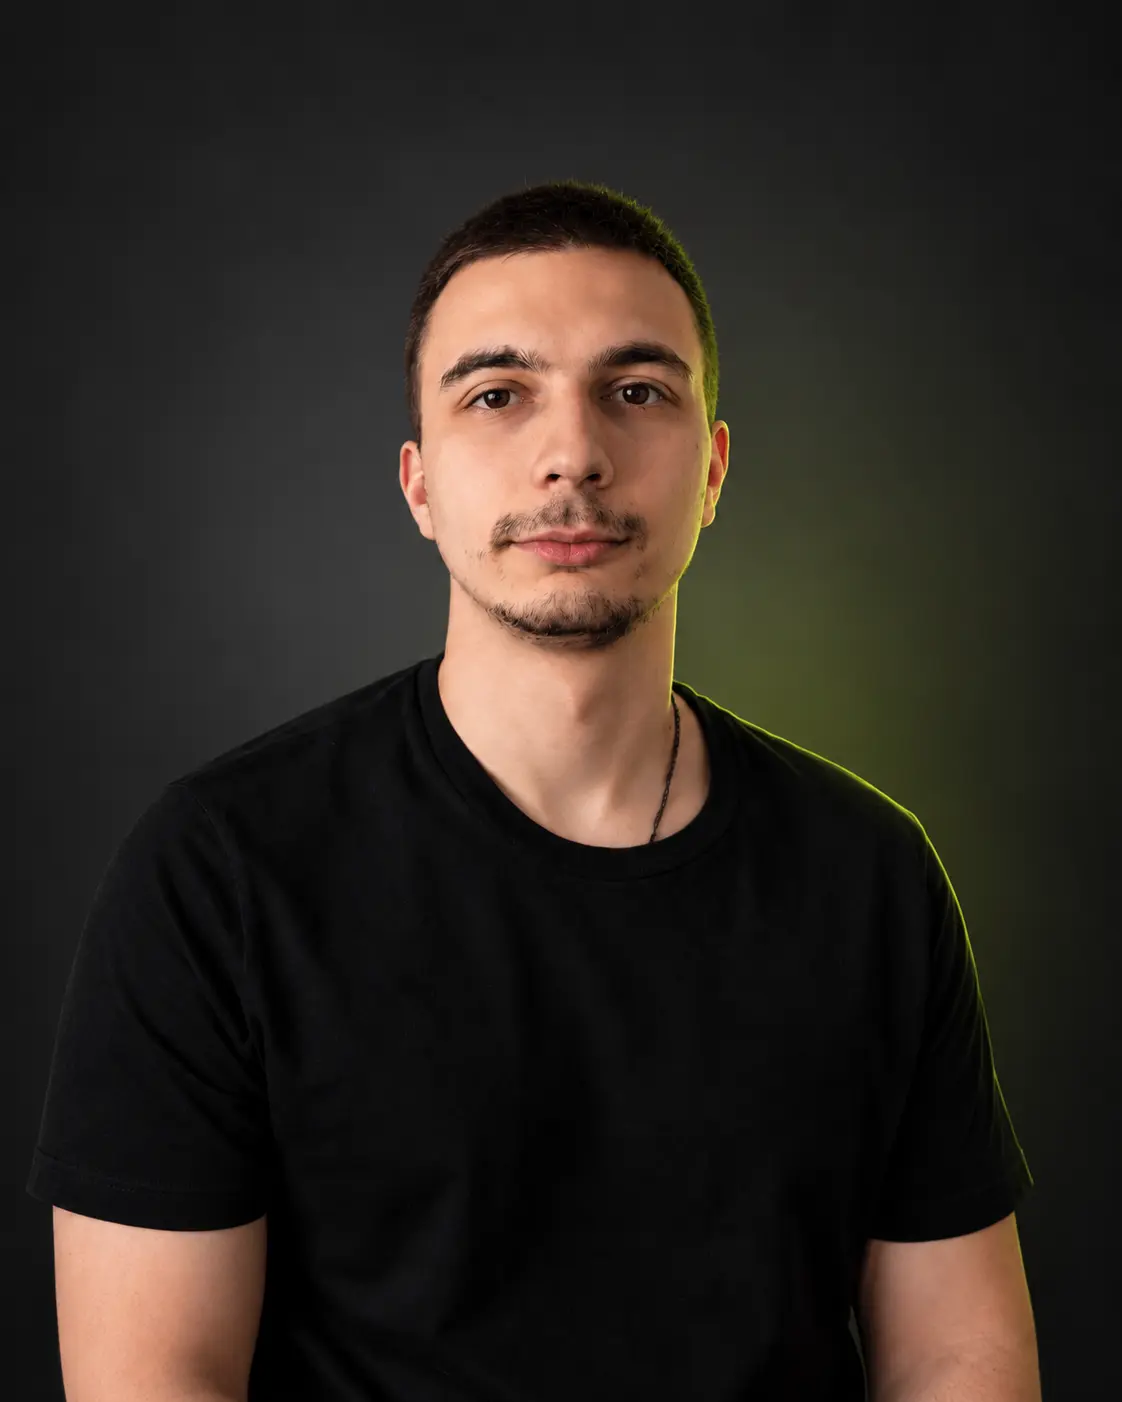
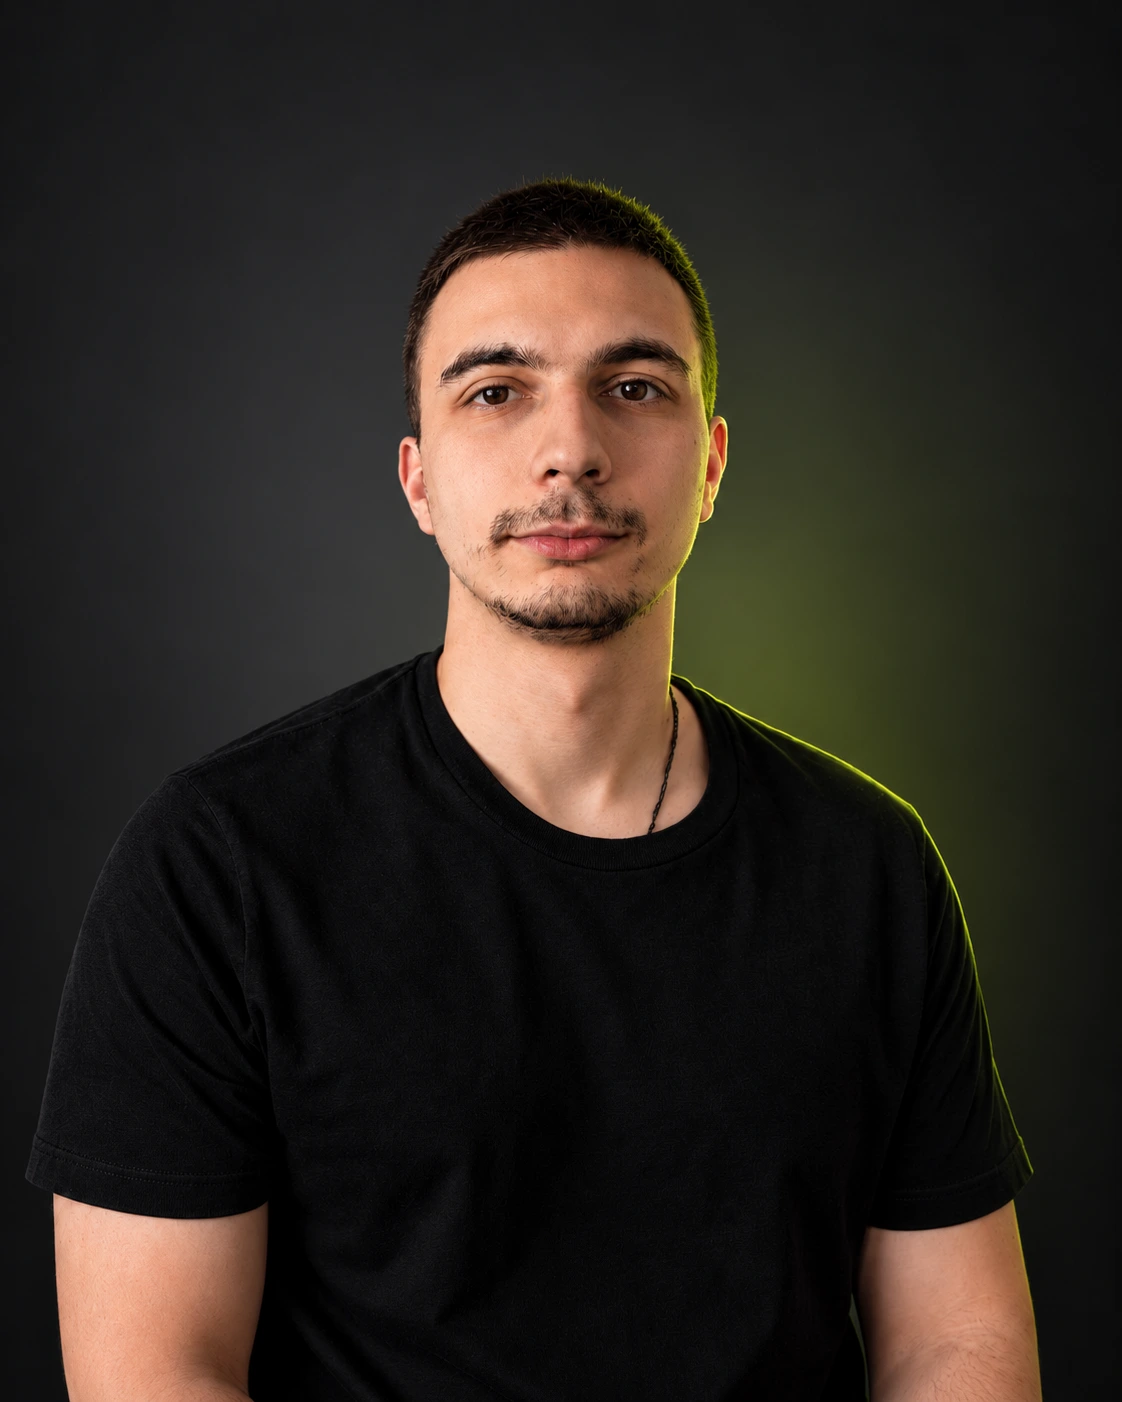
Struja kroz linije sekcija i u kontaktu, hero vodi do kontakta
- Hero: "Javi se" spušta do kontakta umesto kopiranja mejla
- Kontakt: dugmad "Kopiraj mejl" i "Pošalji mejl"; bez duplog linka na mejl
- SectionWire: impuls kroz liniju ispod sekcije kad uđe na ekran,
  smer se smenjuje; uz smanjen pokret linija miruje
- Podnožje: ista mreža tačaka i impulsi kao u hero-u
- Nova fotografija (bolji kvalitet); potvrđeni tekstovi bez [?]

diff --git a/src/components/scroll/SectionWire.tsx b/src/components/scroll/SectionWire.tsx
@@ -1,0 +1,98 @@
+"use client";
+
+import { useEffect, useRef } from "react";
+import { useReducedMotion } from "@/lib/useMediaQuery";
+
+/** Prolaz impulsa; kriva kao iscrtavanje u uvodu (spor početak, mekan kraj). */
+const RUN_MS = 1100;
+const RUN_EASE = "cubic-bezier(0.5, 0, 0.2, 1)";
+/** Pauza između ponovnih prolaza dok je linija na ekranu [min, max] u ms. */
+const IDLE_MS: [number, number] = [6000, 11000];
+
+type Props = {
+  /** Smer impulsa; smenjuje se od sekcije do sekcije, pa struja vijuga niz stranicu. */
+  from: "left" | "right";
+};
+
+/**
+ * Struja kroz liniju između dve sekcije: stoji odmah ispod sekcije sa
+ * `border-b` i pušta impuls kroz tu liniju kad uđe na ekran, pa povremeno
+ * ponovo. Smanjen pokret: ništa, linija ostaje mirna.
+ */
+export function SectionWire({ from }: Props) {
+  const reduce = useReducedMotion();
+  const trackRef = useRef<HTMLDivElement>(null);
+  const headRef = useRef<HTMLDivElement>(null);
+
+  useEffect(() => {
+    const track = trackRef.current;
+    const head = headRef.current;
+    if (reduce || !track || !head) return;
+
+    let timer = 0;
+    let onScreen = false;
+    let running: Animation | null = null;
+
+    const run = () => {
+      if (running) return;
+      const width = track.clientWidth;
+      const size = head.offsetWidth;
+      const [start, end] = from === "left" ? [-size, width] : [width, -size];
+      running = head.animate(
+        [
+          { transform: `translateX(${start}px)`, opacity: 1 },
+          { transform: `translateX(${end}px)`, opacity: 1 },
+        ],
+        { duration: RUN_MS, easing: RUN_EASE },
+      );
+      running.finished
+        .catch(() => undefined)
+        .finally(() => {
+          running = null;
+        });
+    };
+
+    const schedule = () => {
+      window.clearTimeout(timer);
+      const [min, max] = IDLE_MS;
+      timer = window.setTimeout(() => {
+        if (onScreen && !document.hidden) run();
+        schedule();
+      }, min + Math.random() * (max - min));
+    };
+
+    const observer = new IntersectionObserver(
+      ([entry]) => {
+        const entering = entry.isIntersecting && !onScreen;
+        onScreen = entry.isIntersecting;
+        if (entering) {
+          run();
+          schedule();
+        } else if (!onScreen) {
+          window.clearTimeout(timer);
+        }
+      },
+      // Linija mora da pređe donjih 20 % ekrana, da se impuls stvarno vidi.
+      { rootMargin: "0px 0px -20% 0px" },
+    );
+    observer.observe(track);
+
+    return () => {
+      observer.disconnect();
+      window.clearTimeout(timer);
+      running?.cancel();
+    };
+  }, [reduce, from]);
+
+  return (
+    <div aria-hidden="true" className="pointer-events-none relative z-[1] h-0">
+      {/* Traka 12 px centrirana na liniju od 1 px (donja ivica sekcije iznad). */}
+      <div ref={trackRef} className="absolute inset-x-0 -top-[6.5px] h-3 overflow-hidden">
+        <div ref={headRef} className="absolute inset-y-0 left-0 w-[clamp(120px,22vw,320px)] opacity-0">
+          {/* Glava impulsa je na desnom kraju; za smer zdesna se okreće. */}
+          <div className={`section-wire-beam ${from === "right" ? "-scale-x-100" : ""}`} />
+        </div>
+      </div>
+    </div>
+  );
+}

diff --git a/src/components/layout/SiteFooter.tsx b/src/components/layout/SiteFooter.tsx
@@ -1,9 +1,10 @@
 import type { Locale } from "@/i18n/routing";
-import { footer, hero, sectionIds, ui } from "@/content/site";
+import { footer, sectionIds, ui } from "@/content/site";
 import { links } from "@/content/links";
 import { EmailLink } from "@/components/ui/EmailLink";
 import { CopyEmailButton } from "@/components/ui/CopyEmailButton";
 import { FooterName } from "@/components/footer/FooterName";
+import { HeroBackground } from "@/components/hero/HeroBackground";
 
 type FooterLink = { label: string; href: string };
 
@@ -16,30 +17,32 @@ export function SiteFooter({ locale }: { locale: Locale }) {
     <footer
       id={sectionIds.contact}
       aria-labelledby="contact-title"
-      className="overflow-hidden pt-(--section-y) pb-6"
+      className="relative isolate overflow-hidden pt-(--section-y) pb-6"
     >
+      {/* Ista mreža i struja kao u hero-u: stranica počinje i završava se istim prizorom. */}
+      <HeroBackground />
       <div className="wrap">
         <div className="grid gap-12 lg:grid-cols-[1.2fr_1fr] lg:items-end">
           <div>
             <h2 id="contact-title" className="display max-w-[16ch] text-h2">
               {footer.cta[locale]}
             </h2>
-            <div className="mt-8 flex flex-wrap items-baseline gap-x-4 gap-y-2 border-b border-line-2 pb-3">
+            <div className="mt-8 border-b border-line-2 pb-3">
               <EmailLink className="display text-[clamp(18px,2.2vw,26px)] tracking-[-0.02em]" />
+            </div>
+            <div className="mt-6 flex flex-wrap gap-3">
               <CopyEmailButton
-                label={footer.copy[locale]}
-                copiedLabel={hero.copied[locale]}
-                className="mono uppercase text-muted transition-colors duration-(--dur-fast) ease-out hover:text-text"
+                label={footer.copyEmail[locale]}
+                copiedLabel={footer.copied[locale]}
+                className="btn btn-primary"
               />
+              <EmailLink className="btn btn-ghost">{footer.sendEmail[locale]}</EmailLink>
             </div>
           </div>
 
           <div>
             <div className="grid grid-cols-2 gap-x-6 gap-y-8">
               <FooterColumn title={columns.contact[locale]}>
-                <li>
-                  <EmailLink className="link">{linkLabels.email[locale]}</EmailLink>
-                </li>
                 <ExternalItem link={external(linkLabels.linkedin[locale], links.linkedin)} locale={locale} />
               </FooterColumn>
               <FooterColumn title={columns.work[locale]}>

diff --git a/src/content/site.ts b/src/content/site.ts
@@ -33,9 +33,8 @@ export const hero = {
     en: "From sketch and design, through code and database, to launch. Finished means it works on your phone too; polished means every detail shows.",
   },
   primaryCta: { sr: "Pogledaj radove →", en: "See the work →" },
-  copyEmail: { sr: "Kopiraj mejl", en: "Copy email" },
-  /** [?] Potvrda posle kopiranja (iz reference: "KOPIRANO ✓"); potvrditi. */
-  copied: { sr: "Kopirano ✓", en: "Copied ✓" },
+  /** Spušta do kontakta u podnožju (Veljko, 24. 10. 2026; umesto „Kopiraj mejl“). */
+  contactCta: { sr: "Javi se", en: "Get in touch" },
 } as const;
 
 /** Rečenica sa strujom (Veljko, 23. 10. 2026). null = sekcija se ne renderuje. */
@@ -206,13 +205,16 @@ export const footer = {
     sr: "Imaš ideju ili posao za mene? Hajde da popričamo.",
     en: "Got an idea or a job for me? Let's talk.",
   },
-  copy: { sr: "Kopiraj", en: "Copy" },
+  copyEmail: { sr: "Kopiraj mejl", en: "Copy email" },
+  /** Potvrda posle kopiranja (Veljko potvrdio 24. 10. 2026). */
+  copied: { sr: "Kopirano ✓", en: "Copied ✓" },
+  /** Otvara mejl (mailto). Veljko, 24. 10. 2026. */
+  sendEmail: { sr: "Pošalji mejl", en: "Send email" },
   columns: {
     contact: { sr: "Kontakt", en: "Contact" },
     work: { sr: "Radovi", en: "Work" },
   },
   linkLabels: {
-    email: { sr: "Mejl", en: "Email" },
     linkedin: { sr: "LinkedIn ↗", en: "LinkedIn ↗" },
     github: { sr: "GitHub ↗", en: "GitHub ↗" },
     webflow: { sr: "Webflow radovi ↗", en: "Webflow work ↗" },
@@ -236,7 +238,7 @@ export const sectionIds = {
 } as const;
 
 export const seo = {
-  /** [?] Predlog: ime kao naslov, hero podnaslov kao opis. Potvrditi. */
+  /** Ime kao naslov, hero podnaslov kao opis (potvrđeno 24. 10. 2026). */
   title: { sr: "Veljko Vasojević", en: "Veljko Vasojević" },
   description: hero.sub,
   /** JSON-LD Person: fakultet (zvaničan naziv, isti na oba jezika). */
@@ -245,7 +247,7 @@ export const seo = {
 
 /**
  * UI mikrotekst koji nije u sadrzaj/ (pristupačnost i privremena mesta).
- * [?] Predlog, potvrditi.
+ * Potvrđeno 24. 10. 2026.
  */
 export const ui = {
   skipLink: { sr: "Preskoči na sadržaj", en: "Skip to content" },

diff --git a/src/app/[locale]/page.tsx b/src/app/[locale]/page.tsx
@@ -14,6 +14,7 @@ import { Sites } from "@/components/sections/Sites";
 import { About } from "@/components/sections/About";
 import { HowIWork } from "@/components/sections/HowIWork";
 import { SiteFooter } from "@/components/layout/SiteFooter";
+import { SectionWire } from "@/components/scroll/SectionWire";
 import { PersonJsonLd } from "@/components/seo/PersonJsonLd";
 
 export async function generateMetadata(): Promise<Metadata> {
@@ -41,14 +42,22 @@ export default async function HomePage() {
     <>
       <PersonJsonLd locale={locale} />
       <main id={sectionIds.main} tabIndex={-1} className="outline-none">
+        {/* SectionWire stoji ispod svake sekcije sa donjom linijom; smer se smenjuje. */}
         <Hero locale={locale} />
+        <SectionWire from="left" />
         <ChargedSentence locale={locale} />
+        <SectionWire from="right" />
         <Showreel locale={locale} />
         <WorkList locale={locale} />
+        <SectionWire from="left" />
         <Marquee locale={locale} />
+        <SectionWire from="right" />
         <Sites locale={locale} />
+        <SectionWire from="left" />
         <About locale={locale} />
+        <SectionWire from="right" />
         <HowIWork locale={locale} />
+        <SectionWire from="left" />
       </main>
       <SiteFooter locale={locale} />
     </>

diff --git a/src/components/sections/Hero.tsx b/src/components/sections/Hero.tsx
@@ -2,7 +2,6 @@ import type { Locale } from "@/i18n/routing";
 import { hero, sectionIds } from "@/content/site";
 import { FlipWord } from "@/components/hero/FlipWord";
 import { HeroBackground } from "@/components/hero/HeroBackground";
-import { CopyEmailButton } from "@/components/ui/CopyEmailButton";
 
 export function Hero({ locale }: { locale: Locale }) {
   const { prefix, words, suffix } = hero.headline;
@@ -35,11 +34,9 @@ export function Hero({ locale }: { locale: Locale }) {
           <a href={`#${sectionIds.work}`} className="btn btn-primary">
             {hero.primaryCta[locale]}
           </a>
-          <CopyEmailButton
-            label={hero.copyEmail[locale]}
-            copiedLabel={hero.copied[locale]}
-            className="btn btn-ghost"
-          />
+          <a href={`#${sectionIds.contact}`} className="btn btn-ghost">
+            {hero.contactCta[locale]}
+          </a>
         </div>
       </div>
     </section>

diff --git a/src/app/globals.css b/src/app/globals.css
@@ -213,6 +213,28 @@
     background: radial-gradient(ellipse 80% 60% at 50% 0%, transparent 40%, var(--bg) 100%);
   }
 
+  /* Impuls kroz liniju između sekcija: rep se gasi ulevo, glava je usijana */
+  .section-wire-beam {
+    position: absolute;
+    inset: 0;
+    background: linear-gradient(
+        90deg,
+        transparent 0%,
+        rgba(var(--energy-rgb), 0.35) 55%,
+        var(--energy) 92%,
+        var(--energy-hot) 100%
+      )
+      center / 100% 1px no-repeat;
+  }
+  /* Sjaj oko glave (zamućen jednom; pomera se samo transform) */
+  .section-wire-beam::after {
+    content: "";
+    position: absolute;
+    inset: 3px 0;
+    background: linear-gradient(90deg, transparent 45%, rgba(var(--energy-rgb), 0.55) 100%);
+    filter: blur(4px);
+  }
+
   /* Uvod (VV): vidljiv samo dok je na <html> atribut data-intro */
   .intro {
     display: none;

diff --git a/src/app/[locale]/design/page.tsx b/src/app/[locale]/design/page.tsx
@@ -122,7 +122,7 @@ export default async function DesignPage() {
             {hero.primaryCta[locale]}
           </button>
           <button type="button" className="btn btn-ghost">
-            {hero.copyEmail[locale]}
+            {hero.contactCta[locale]}
           </button>
           <button type="button" className="btn btn-primary btn-sm">
             {nav.cta[locale]}
